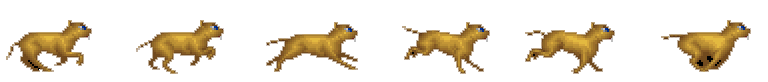
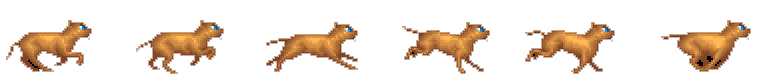
Converted the texture manager to a singleton and corrected a color profile issue with one of the images.

diff --git a/Chapter2/Game.cpp b/Chapter2/Game.cpp
@@ -12,38 +12,6 @@
 #include "TextureManager.h"
 #include "Utility.h"
 
-// TTF reference functions from external tutorial.
-//
-//namespace {
-//  TTF_Font *openFont(const std::string &pFontFileName, int pFontSize) {
-//    TTF_Font *font = TTF_OpenFont(pFontFileName.c_str(), pFontSize);
-//    if (nullptr == font) {
-//      Log::SdlError(std::cout, "TTF_OpenFont");
-//      return nullptr;
-//    }
-//    return font;
-//  }
-//
-//  SDL_Texture *renderText(
-//    const std::string &pMessage,
-//    TTF_Font *pFont,
-//    SDL_Color pColor,
-//    SDL_Renderer *pRenderer
-//  ) {
-//    SDL_Surface *surface = TTF_RenderText_Blended(pFont, pMessage.c_str(), pColor);
-//    if (nullptr == surface) {
-//      Log::SdlError(std::cout, "TTF_RenderText");
-//      return nullptr;
-//    }
-//    SDL_Texture *texture = SDL_CreateTextureFromSurface(pRenderer, surface);
-//    if (nullptr == texture) {
-//      Log::SdlError(std::cout, "CreateTexture");
-//    }
-//    SDL_FreeSurface(surface);
-//    return texture;
-//  }
-//}
-
 Game::Game(void) : mWindow(nullptr), mRenderer(nullptr) {
   reset();
   std::cout << Constants::ApplicationName() << " Game Start." << std::endl;
@@ -102,9 +70,10 @@ void Game::reset(void) {
     mDone = mError = true;
     return;
   }
+  mTextureManager = TextureManager::Instance();
   const std::string resourcePath = Constants::ResourcePath("");
-  mTextureManager.load(resourcePath + "animate.png", "object", mRenderer);
-  mTextureManager.load(resourcePath + "background.png", "background", mRenderer);
+  mTextureManager->load(resourcePath + "animate.png", "object", mRenderer);
+  mTextureManager->load(resourcePath + "background.png", "background", mRenderer);
   mFrame = 0;
   mDone = mError = false;
 }
@@ -113,22 +82,22 @@ void Game::render(void) {
   SDL_SetRenderDrawColor(mRenderer, mRed, mGreen, mBlue, mAlpha);
   SDL_RenderClear(mRenderer);
   int tileWidth, tileHeight;
-  mTextureManager.queryTexture("background", nullptr, nullptr, &tileWidth, &tileHeight);
+  mTextureManager->queryTexture("background", nullptr, nullptr, &tileWidth, &tileHeight);
   int offsetX = cos((float)mFrame / (Constants::FramesPerSecond() * 3)) * tileHeight - tileHeight;
   int offsetY = (mFrame / 2) % tileWidth - tileWidth;
   for (int y = offsetY; y < Constants::WindowHeight(); y += tileHeight) {
     for (int x = offsetX; x < Constants::WindowWidth(); x += tileWidth) {
       SDL_RendererFlip flip = x / tileWidth % 2 ? SDL_FLIP_HORIZONTAL : SDL_FLIP_NONE | y / tileHeight % 2 ? SDL_FLIP_VERTICAL : SDL_FLIP_NONE;
-      mTextureManager.draw("background", x, y, tileWidth, tileHeight, mRenderer, 1.0, 0.0, flip);
+      mTextureManager->draw("background", x, y, tileWidth, tileHeight, mRenderer, 1.0, 0.0, flip);
     }
   }
   int objectWidth, objectHeight;
-  mTextureManager.queryTexture("object", nullptr, nullptr, &objectWidth, &objectHeight);
+  mTextureManager->queryTexture("object", nullptr, nullptr, &objectWidth, &objectHeight);
   objectWidth /= Constants::AnimationFrames();
   int centerX = (Constants::WindowWidth() - objectWidth * mObjectScale) / 2;
   int centerY = (Constants::WindowHeight() - objectHeight * mObjectScale) / 2;
-  mTextureManager.drawFrame("object", centerX, centerY, objectWidth, objectHeight, 0, mObjectAnimationFrame, mRenderer);
-  mTextureManager.drawFrame("object", mObjectX, mObjectY, objectWidth, objectHeight, 0, mObjectAnimationFrame, mRenderer, mObjectScale, mObjectRotation, SDL_FLIP_HORIZONTAL);
+  mTextureManager->drawFrame("object", centerX, centerY, objectWidth, objectHeight, 0, mObjectAnimationFrame, mRenderer);
+  mTextureManager->drawFrame("object", mObjectX, mObjectY, objectWidth, objectHeight, 0, mObjectAnimationFrame, mRenderer, mObjectScale, mObjectRotation, SDL_FLIP_HORIZONTAL);
   SDL_RenderPresent(mRenderer);
   if (0 == mFrame % Constants::FramesPerSecond()) {
     std::cout << Constants::ApplicationName() << " Frame: " << mFrame << std::endl;
@@ -173,7 +142,7 @@ void Game::update(void) {
       break;
   }
   int objectWidth, objectHeight;
-  mTextureManager.queryTexture("object", nullptr, nullptr, &objectWidth, &objectHeight);
+  mTextureManager->queryTexture("object", nullptr, nullptr, &objectWidth, &objectHeight);
   objectWidth /= Constants::AnimationFrames();
   mObjectScale = 1.0 + 0.5 * cos((float)mFrame / (Constants::FramesPerSecond() / 2));
   int centerX = (Constants::WindowWidth() - objectWidth * mObjectScale) / 2;

diff --git a/Chapter2/TextureManager.h b/Chapter2/TextureManager.h
@@ -6,6 +6,12 @@
 
 class TextureManager {
   public:
+    static TextureManager *Instance() {
+      if (nullptr == sInstance) {
+        sInstance = new TextureManager();
+      }
+      return sInstance;
+    }
     bool load(std::string pFileName, std::string pId, SDL_Renderer *pRenderer);
     void draw(
       std::string pId,
@@ -34,7 +40,10 @@ class TextureManager {
     int queryTexture(std::string pId, Uint32 *pFormat, int *pAccess, int *pWidth, int *pHeight);
 
   private:
+    static TextureManager *sInstance;
     std::map<std::string, SDL_Texture *> mTextureMap;
+
+    TextureManager() {}
 };
 
 #endif // TEXTURE_MANAGER_H

diff --git a/Chapter2/TextureManager.cpp b/Chapter2/TextureManager.cpp
@@ -4,6 +4,8 @@
 #include "Log.h"
 #include "TextureManager.h"
 
+TextureManager *TextureManager::sInstance = nullptr;
+
 bool TextureManager::load(std::string pFileName, std::string pId, SDL_Renderer *pRenderer) {
   SDL_Texture *texture = IMG_LoadTexture(pRenderer, pFileName.c_str());
   if (nullptr == texture) {

diff --git a/Chapter2/Game.h b/Chapter2/Game.h
@@ -27,7 +27,7 @@ class Game {
     int mObjectX, mObjectY;
     double mObjectScale, mObjectRotation;
     int mObjectAnimationFrame;
-    TextureManager mTextureManager;
+    TextureManager *mTextureManager;
 };
 
 #endif // GAME_H
